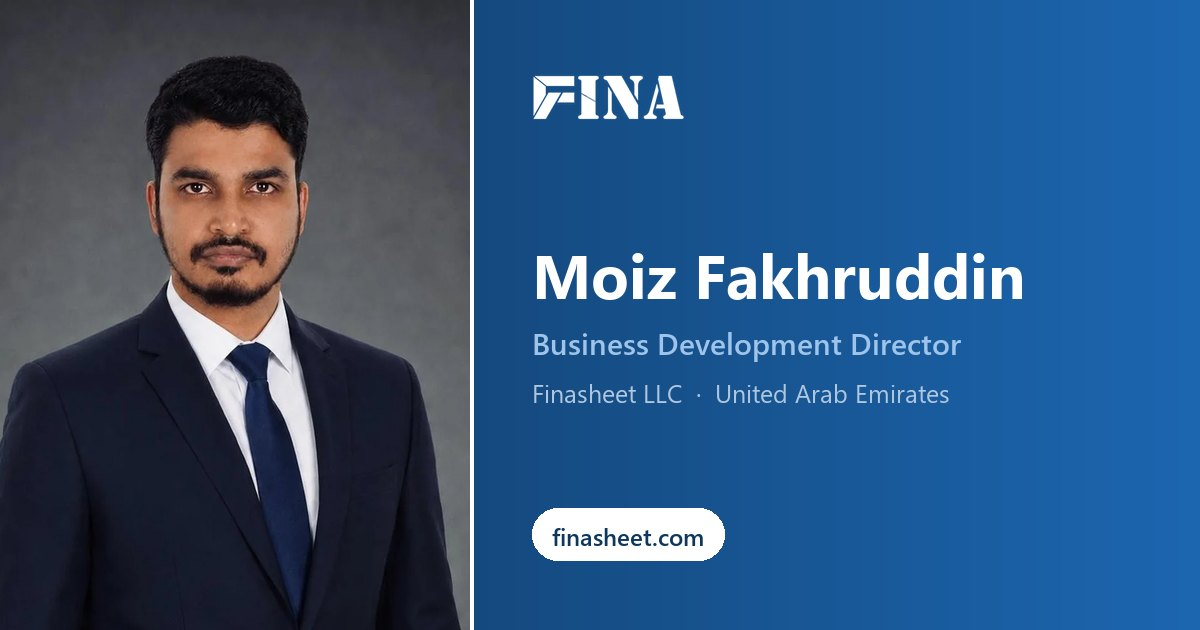
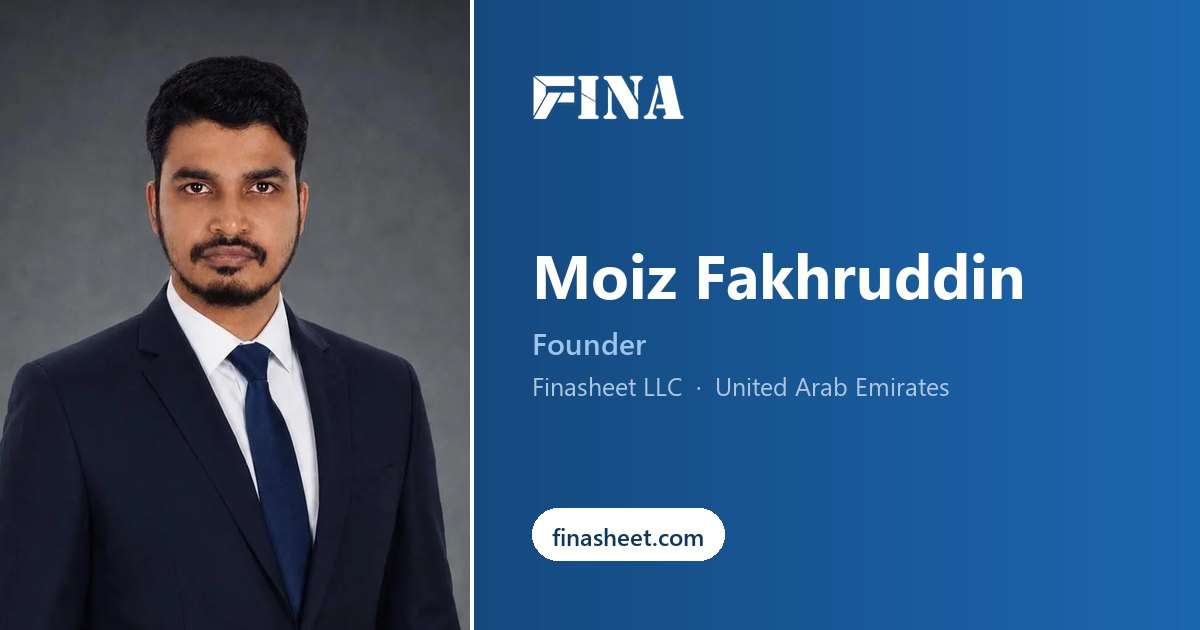
Moiz Fakhruddin is Founder
One JSON edit plus a rerun of the three generators. The title is not stored
anywhere by hand, so it propagated to the card page (title, description,
og:title, og:image:alt, visible role, JSON-LD jobTitle), the vCard, the 1200x630
link preview, and the team page.

The team page sorts by seniority and "founder" was not in that list, so he would
have dropped below the manager and the executive. Added at the top.

Changed region(s): [[0.4317, 0.5127, 0.8017, 0.573], [0.4317, 0.6032, 0.8017, 0.6635]]

diff --git a/our-team.html b/our-team.html
@@ -123,7 +123,7 @@ src="https://www.facebook.com/tr?id=1313660467555616&ev=PageView&noscript=1"
       "worksFor": {
         "@id": "https://finasheet.com/#organization"
       },
-      "jobTitle": "Business Development Director",
+      "jobTitle": "Founder",
       "email": "Moiz@finasheet.com",
       "telephone": "+971565312297",
       "image": "https://finasheet.com/assets/team/moiz-fakhruddin.webp",
@@ -288,7 +288,7 @@ height="0" width="0" style="display:none;visibility:hidden"></iframe></noscript>
       <p class="lead">Based in the United Arab Emirates, working with mainland and free zone
         businesses on accounting, VAT and corporate tax.</p>
     </div>
-    <div class="tm-grid"><div class="tm reveal"><img class="tm-photo" src="/assets/team/moiz-fakhruddin.webp" alt="Moiz Fakhruddin" width="400" height="400" loading="lazy" decoding="async"><h3>Moiz Fakhruddin</h3><p class="tm-role">Business Development Director</p><p class="tm-loc">United Arab Emirates</p><a class="btn btn-ghost" href="/team/moiz-fakhruddin"><svg viewBox="0 0 24 24" fill="none" stroke="currentColor" stroke-width="2" stroke-linecap="round" stroke-linejoin="round"><rect x="2" y="4" width="20" height="16" rx="2"/><circle cx="8" cy="10" r="2"/><path d="M14 9h4M14 13h4M6 15h6"/></svg><span>Digital card</span></a></div><div class="tm reveal"><img class="tm-photo" src="/assets/team/buhari-anshif.webp" alt="Buhari Anshif" width="400" height="400" loading="lazy" decoding="async"><h3>Buhari Anshif</h3><p class="tm-role">Business Development Manager</p><p class="tm-loc">United Arab Emirates</p><a class="btn btn-ghost" href="/team/buhari-anshif"><svg viewBox="0 0 24 24" fill="none" stroke="currentColor" stroke-width="2" stroke-linecap="round" stroke-linejoin="round"><rect x="2" y="4" width="20" height="16" rx="2"/><circle cx="8" cy="10" r="2"/><path d="M14 9h4M14 13h4M6 15h6"/></svg><span>Digital card</span></a></div><div class="tm reveal"><img class="tm-photo" src="/assets/team/sradha-santhosh.webp" alt="Sradha Santhosh" width="400" height="400" loading="lazy" decoding="async"><h3>Sradha Santhosh</h3><p class="tm-role">Sr. Business Development Executive</p><p class="tm-loc">United Arab Emirates</p><a class="btn btn-ghost" href="/team/sradha-santhosh"><svg viewBox="0 0 24 24" fill="none" stroke="currentColor" stroke-width="2" stroke-linecap="round" stroke-linejoin="round"><rect x="2" y="4" width="20" height="16" rx="2"/><circle cx="8" cy="10" r="2"/><path d="M14 9h4M14 13h4M6 15h6"/></svg><span>Digital card</span></a></div></div>
+    <div class="tm-grid"><div class="tm reveal"><img class="tm-photo" src="/assets/team/moiz-fakhruddin.webp" alt="Moiz Fakhruddin" width="400" height="400" loading="lazy" decoding="async"><h3>Moiz Fakhruddin</h3><p class="tm-role">Founder</p><p class="tm-loc">United Arab Emirates</p><a class="btn btn-ghost" href="/team/moiz-fakhruddin"><svg viewBox="0 0 24 24" fill="none" stroke="currentColor" stroke-width="2" stroke-linecap="round" stroke-linejoin="round"><rect x="2" y="4" width="20" height="16" rx="2"/><circle cx="8" cy="10" r="2"/><path d="M14 9h4M14 13h4M6 15h6"/></svg><span>Digital card</span></a></div><div class="tm reveal"><img class="tm-photo" src="/assets/team/buhari-anshif.webp" alt="Buhari Anshif" width="400" height="400" loading="lazy" decoding="async"><h3>Buhari Anshif</h3><p class="tm-role">Business Development Manager</p><p class="tm-loc">United Arab Emirates</p><a class="btn btn-ghost" href="/team/buhari-anshif"><svg viewBox="0 0 24 24" fill="none" stroke="currentColor" stroke-width="2" stroke-linecap="round" stroke-linejoin="round"><rect x="2" y="4" width="20" height="16" rx="2"/><circle cx="8" cy="10" r="2"/><path d="M14 9h4M14 13h4M6 15h6"/></svg><span>Digital card</span></a></div><div class="tm reveal"><img class="tm-photo" src="/assets/team/sradha-santhosh.webp" alt="Sradha Santhosh" width="400" height="400" loading="lazy" decoding="async"><h3>Sradha Santhosh</h3><p class="tm-role">Sr. Business Development Executive</p><p class="tm-loc">United Arab Emirates</p><a class="btn btn-ghost" href="/team/sradha-santhosh"><svg viewBox="0 0 24 24" fill="none" stroke="currentColor" stroke-width="2" stroke-linecap="round" stroke-linejoin="round"><rect x="2" y="4" width="20" height="16" rx="2"/><circle cx="8" cy="10" r="2"/><path d="M14 9h4M14 13h4M6 15h6"/></svg><span>Digital card</span></a></div></div>
   </div>
 </section>
 

diff --git a/team/moiz-fakhruddin.html b/team/moiz-fakhruddin.html
@@ -28,21 +28,21 @@ src="https://www.facebook.com/tr?id=1313660467555616&ev=PageView&noscript=1"
 <!-- generated by scripts/build-team-cards.py - edit team/employees.json, not this file -->
 <meta charset="UTF-8">
 <meta name="viewport" content="width=device-width, initial-scale=1.0">
-<title>Moiz Fakhruddin - Business Development Director | Finasheet LLC</title>
-<meta name="description" content="Moiz Fakhruddin - Business Development Director, Finasheet LLC. Save contact, call, email or message on WhatsApp.">
+<title>Moiz Fakhruddin - Founder | Finasheet LLC</title>
+<meta name="description" content="Moiz Fakhruddin - Founder, Finasheet LLC. Save contact, call, email or message on WhatsApp.">
 <meta name="robots" content="noindex, follow">
 <link rel="canonical" href="https://finasheet.com/team/moiz-fakhruddin">
 
 <meta property="og:type" content="profile">
 <meta property="og:site_name" content="Finasheet LLC">
-<meta property="og:title" content="Moiz Fakhruddin - Business Development Director">
-<meta property="og:description" content="Moiz Fakhruddin - Business Development Director, Finasheet LLC. Save contact, call, email or message on WhatsApp.">
+<meta property="og:title" content="Moiz Fakhruddin - Founder">
+<meta property="og:description" content="Moiz Fakhruddin - Founder, Finasheet LLC. Save contact, call, email or message on WhatsApp.">
 <meta property="og:url" content="https://finasheet.com/team/moiz-fakhruddin">
 <meta property="og:image" content="https://finasheet.com/assets/team/moiz-fakhruddin-og.jpg">
 <meta property="og:image:type" content="image/jpeg">
 <meta property="og:image:width" content="1200">
 <meta property="og:image:height" content="630">
-<meta property="og:image:alt" content="Moiz Fakhruddin - Business Development Director, Finasheet LLC">
+<meta property="og:image:alt" content="Moiz Fakhruddin - Founder, Finasheet LLC">
 <meta name="twitter:card" content="summary_large_image">
 <meta name="twitter:image" content="https://finasheet.com/assets/team/moiz-fakhruddin-og.jpg">
 
@@ -66,7 +66,7 @@ src="https://www.facebook.com/tr?id=1313660467555616&ev=PageView&noscript=1"
     "name": "Finasheet LLC",
     "url": "https://finasheet.com/"
   },
-  "jobTitle": "Business Development Director",
+  "jobTitle": "Founder",
   "email": "Moiz@finasheet.com",
   "telephone": "+971565312297",
   "image": "https://finasheet.com/assets/team/moiz-fakhruddin.webp"
@@ -81,7 +81,7 @@ height="0" width="0" style="display:none;visibility:hidden"></iframe></noscript>
 <!-- End Google Tag Manager (noscript) -->
 <main class="card">
   <div class="portrait">
-    <img class="portrait-img" style="--face:30%" src="/assets/team/moiz-fakhruddin-hero.webp" alt="Moiz Fakhruddin, Business Development Director" width="800" height="1000">
+    <img class="portrait-img" style="--face:30%" src="/assets/team/moiz-fakhruddin-hero.webp" alt="Moiz Fakhruddin, Founder" width="800" height="1000">
     <a class="brand on-dark" href="/" aria-label="Finasheet LLC">
       <img src="/assets/fina-logo-wordmark-white.webp" alt="Finasheet LLC" width="320" height="96">
     </a>
@@ -89,7 +89,7 @@ height="0" width="0" style="display:none;visibility:hidden"></iframe></noscript>
 
   <div class="identity">
     <h1>Moiz Fakhruddin</h1>
-    <p class="role">Business Development Director</p>
+    <p class="role">Founder</p>
     <p class="org">Finasheet LLC &middot; United Arab Emirates</p>
   </div>
 

diff --git a/scripts/build-team-page.py b/scripts/build-team-page.py
@@ -106,7 +106,7 @@ def main():
         return 1
 
     # keep the page in a deliberate order rather than whatever JSON order is
-    RANK = ["director", "manager", "executive"]
+    RANK = ["founder", "director", "manager", "executive"]
 
     def rank(e):
         t = (e.get("title") or "").lower()
